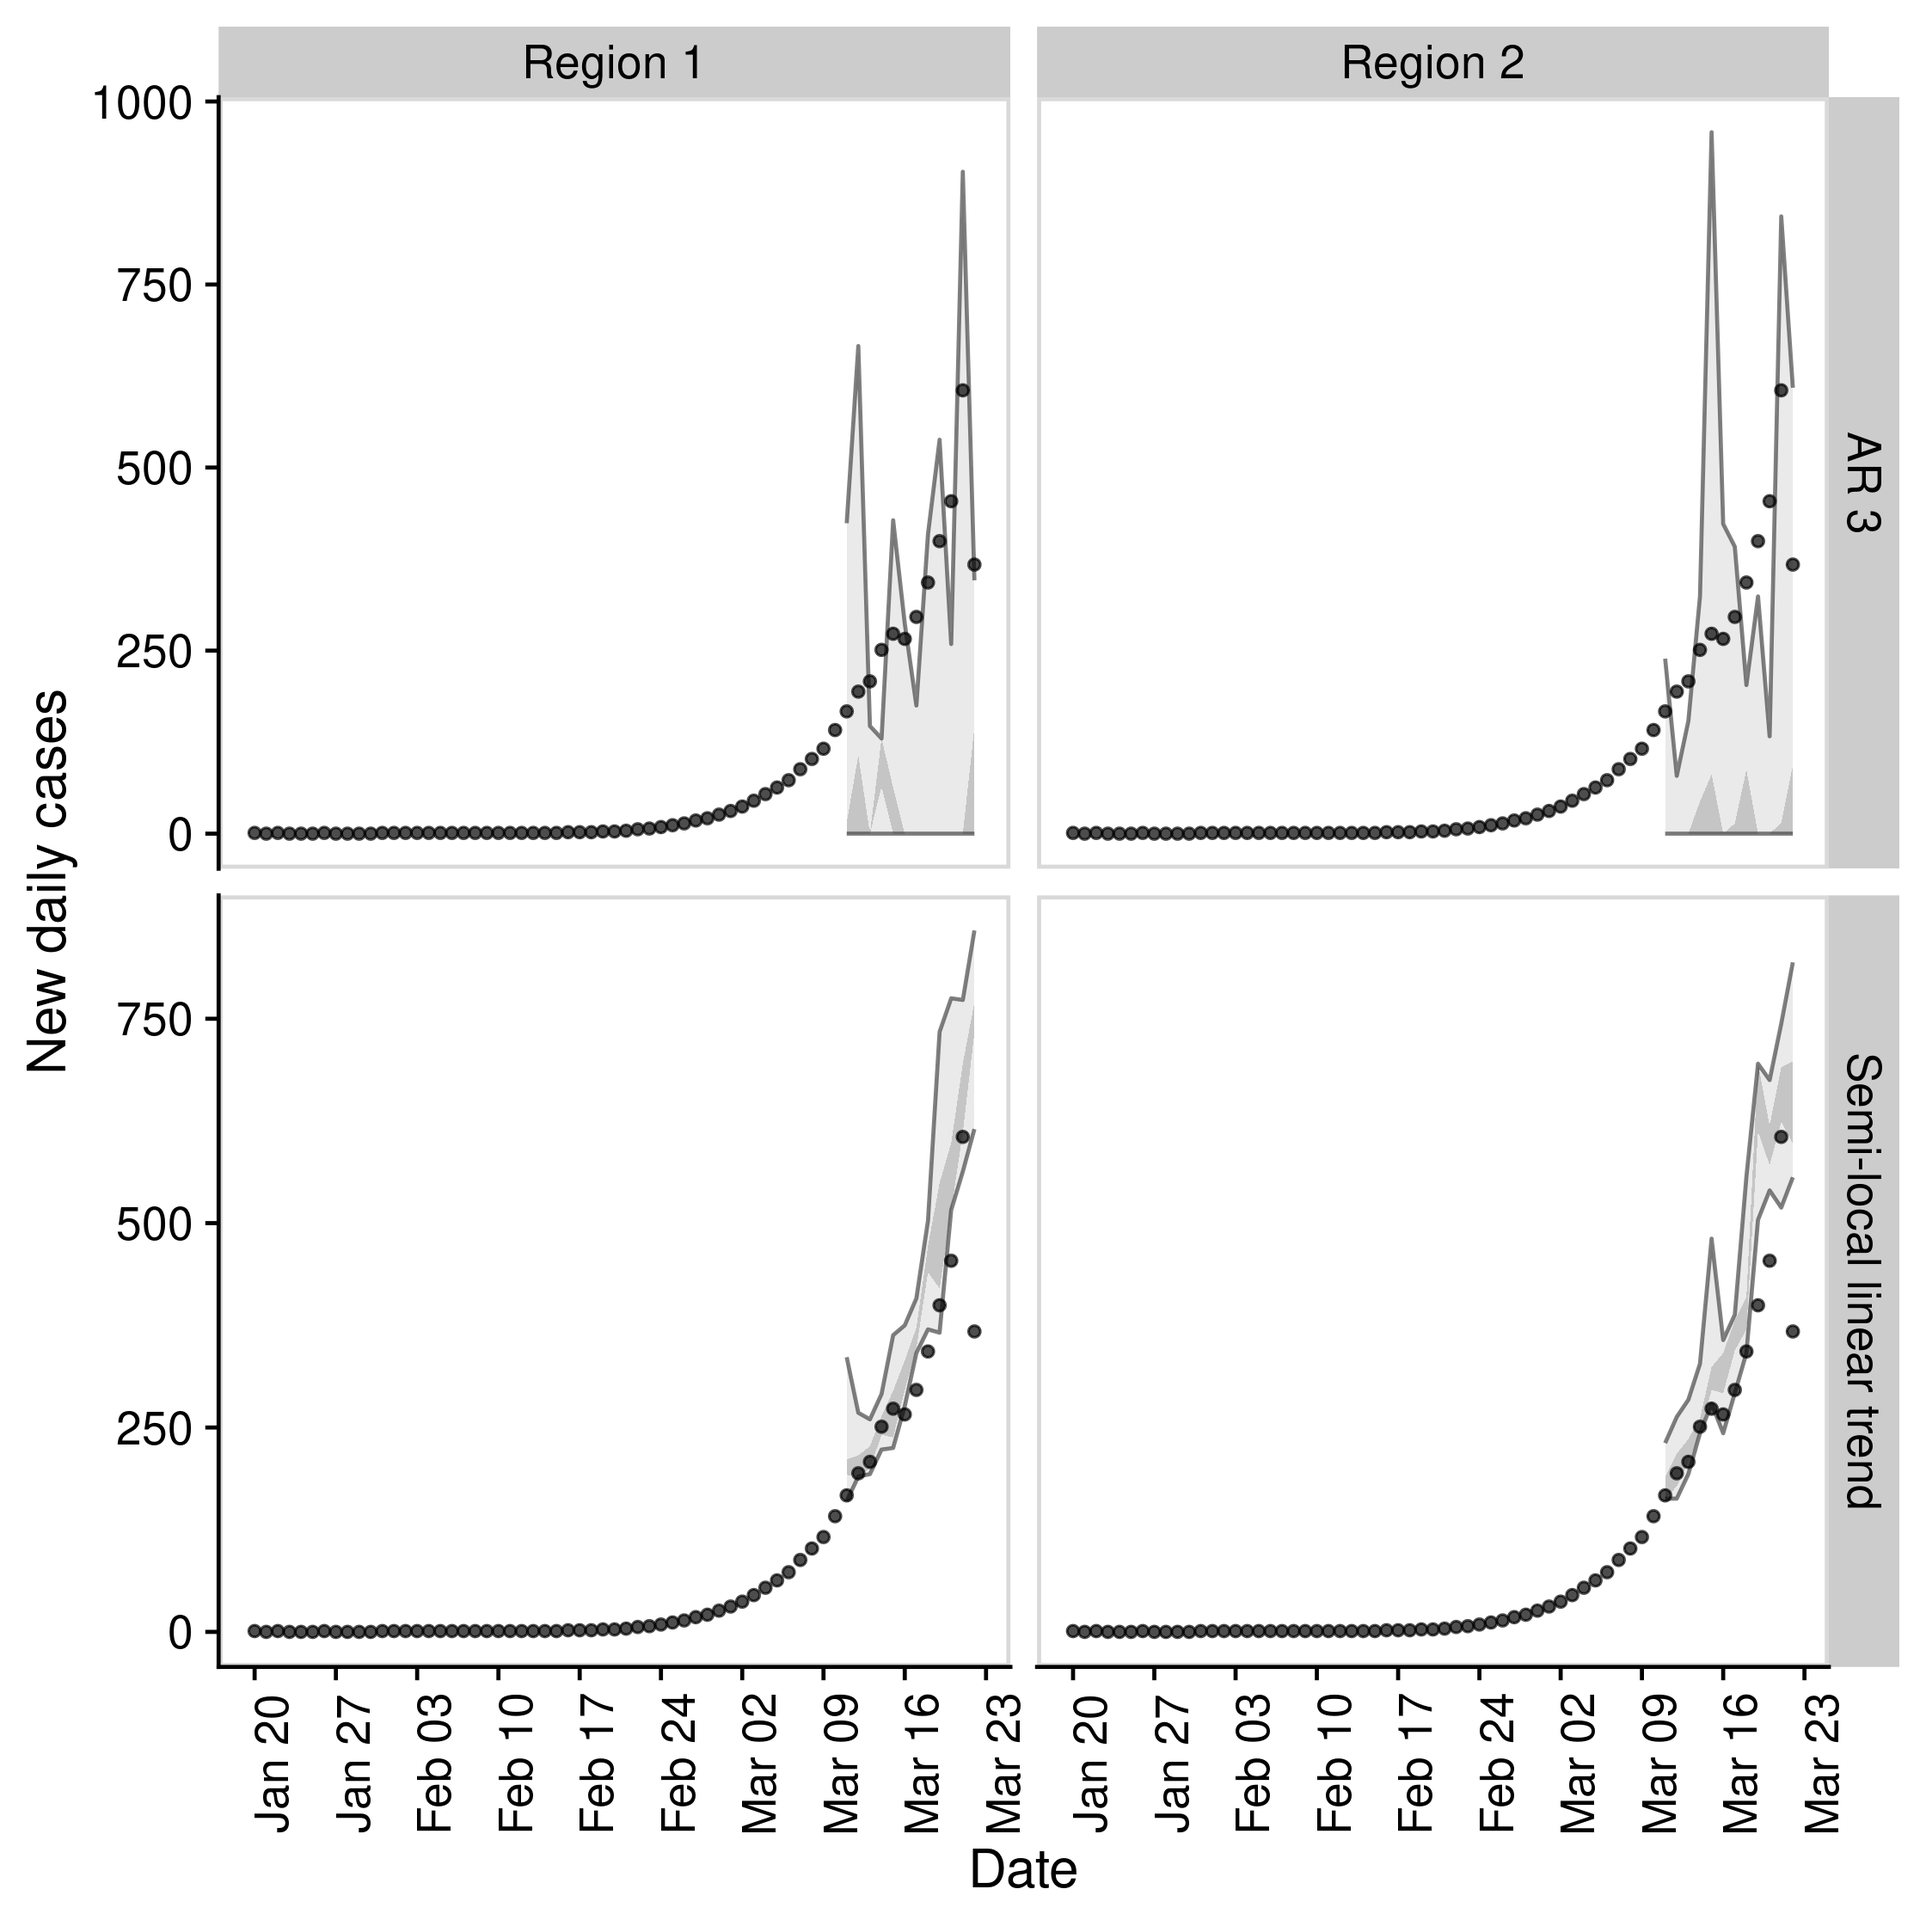
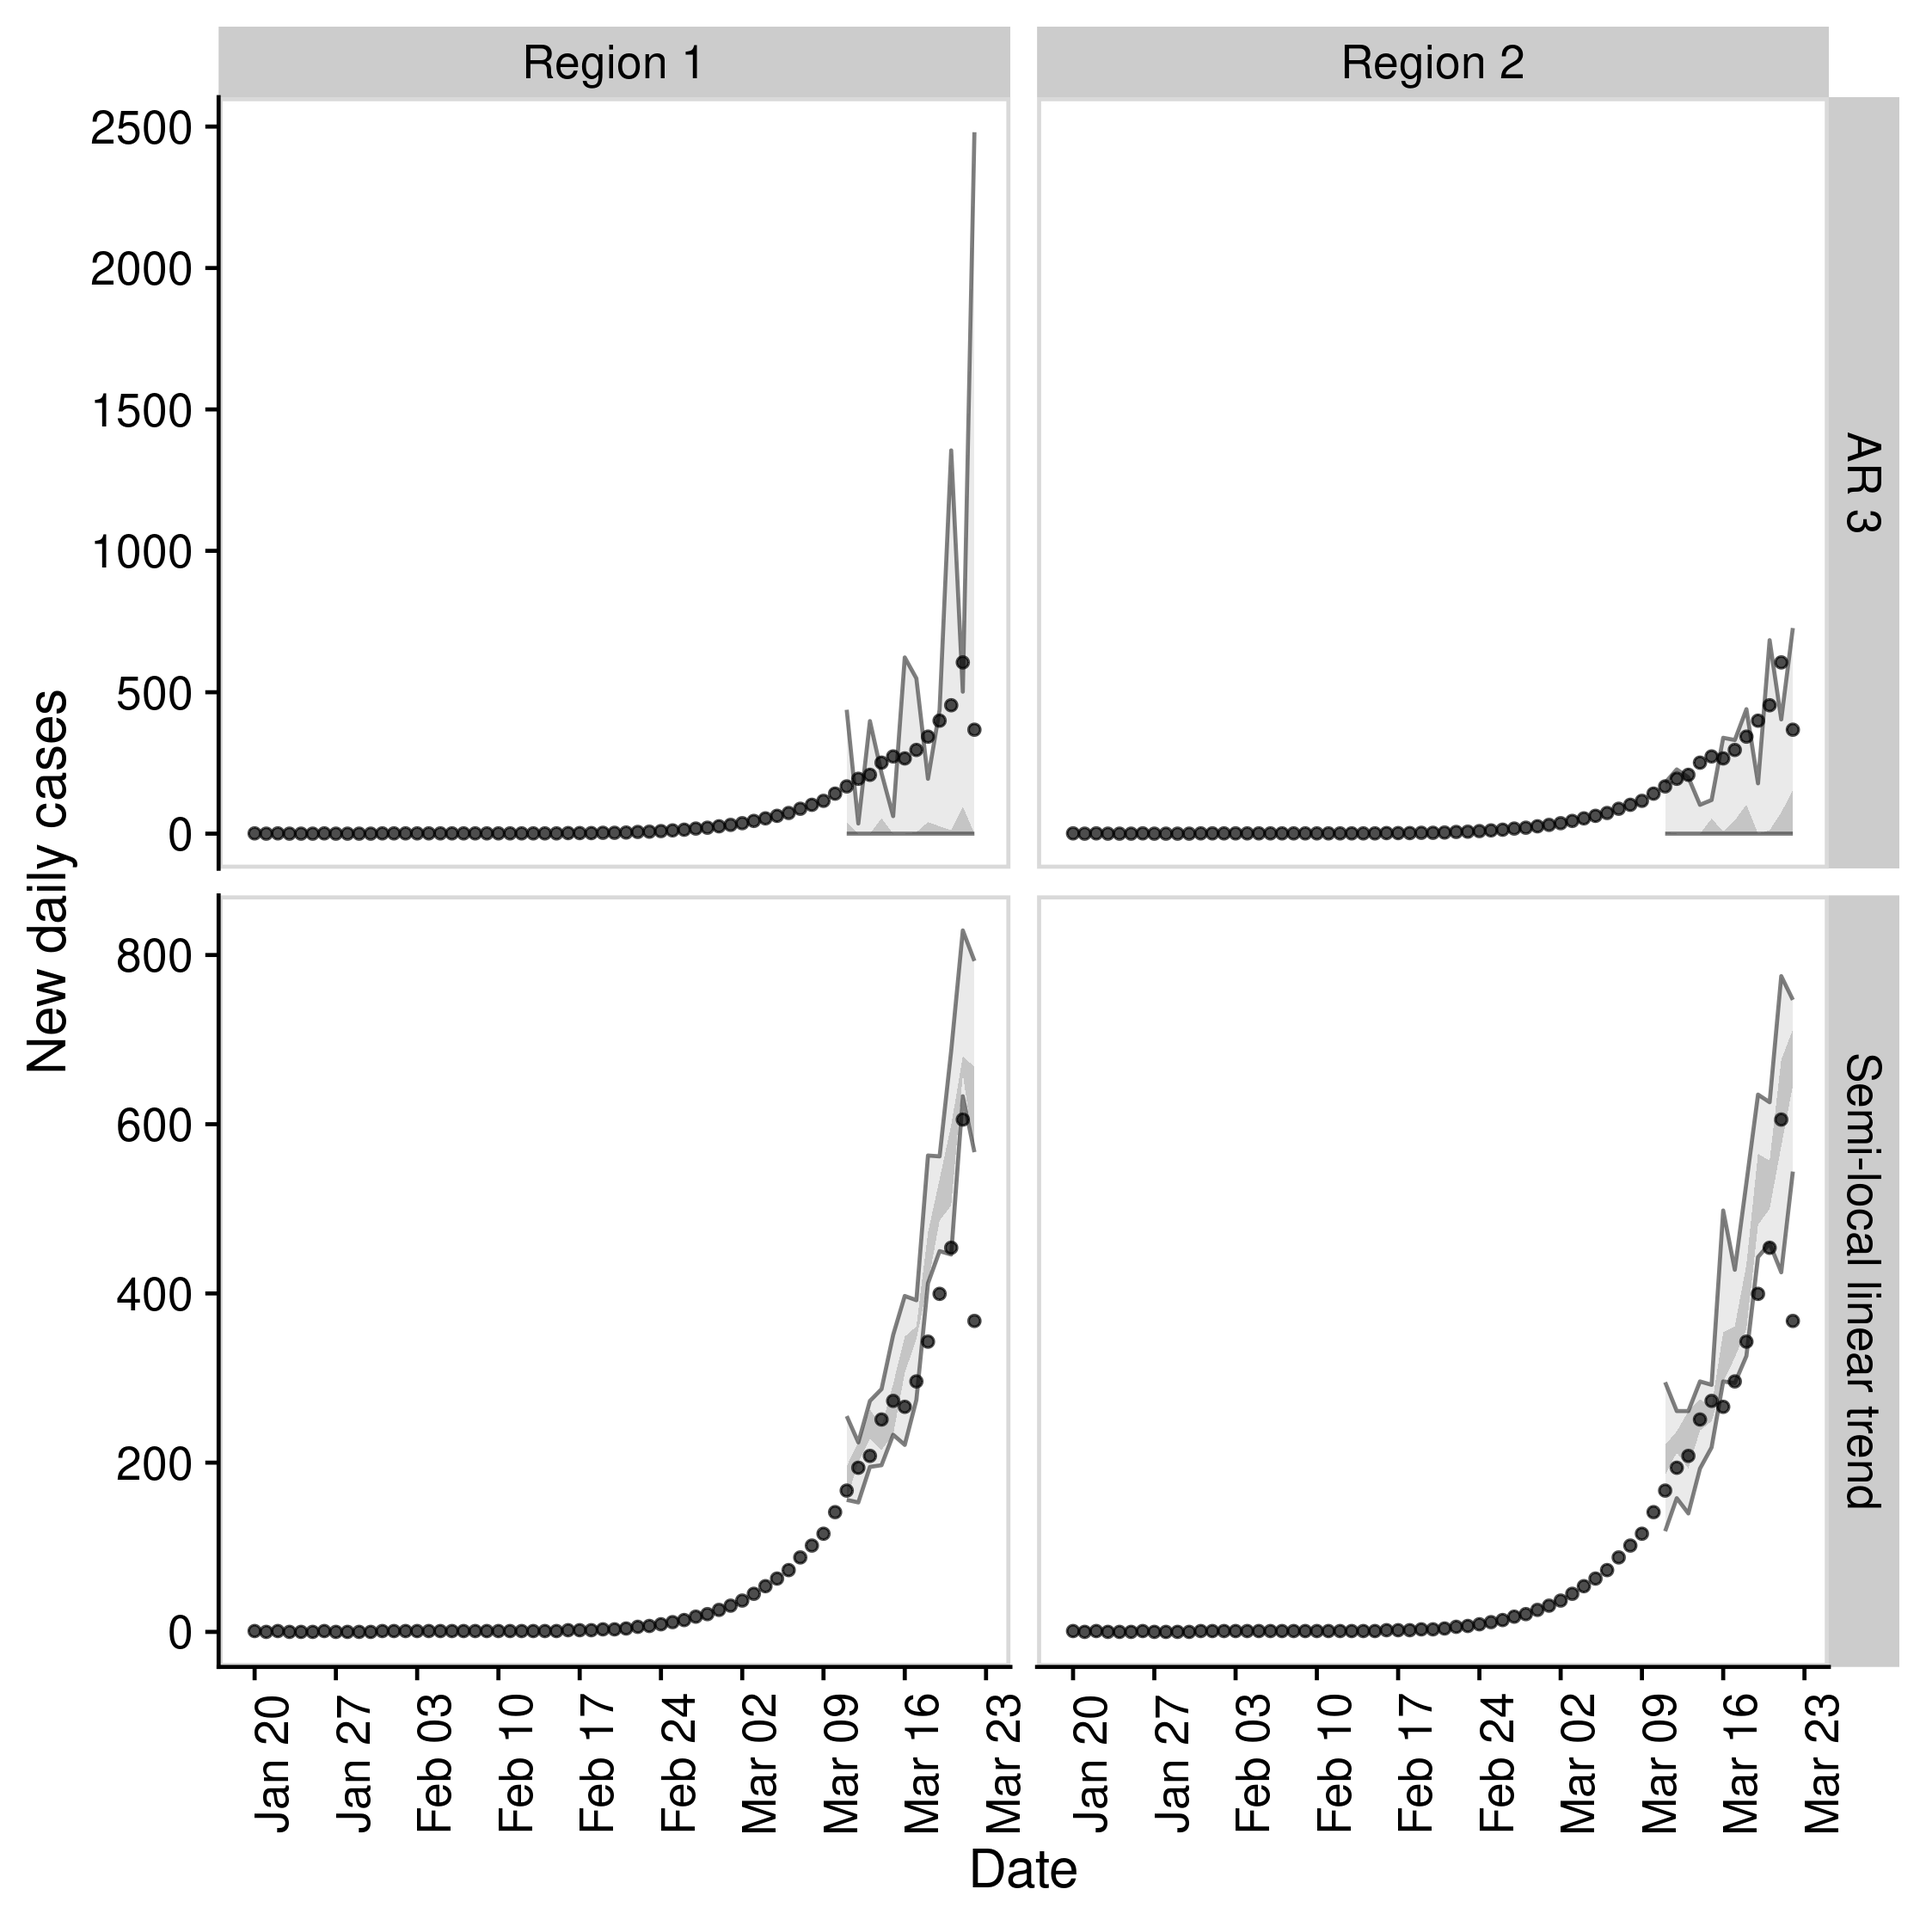
update install instructions

diff --git a/README.md b/README.md
@@ -24,7 +24,7 @@ Install the stable version of the package using
 
 ``` r
 install.packages("drat")
-drat::add("epiforecasts")
+drat:::add("epiforecasts")
 install.packages("EpiSoon")
 ```
 
@@ -105,35 +105,35 @@ forecasts <- EpiSoon::compare_timeseries(obs_rts, obs_cases, models,
 forecasts
 #> $forecast_rts
 #> # A tibble: 532 x 12
-#>    timeseries model forecast_date date       horizon median  mean    sd bottom
-#>    <chr>      <chr> <chr>         <date>       <int>  <dbl> <dbl> <dbl>  <dbl>
-#>  1 Region 1   AR 3  2020-03-04    2020-03-05       1 0      0.548 0.966      0
-#>  2 Region 1   AR 3  2020-03-04    2020-03-06       2 0.0701 1.53  2.10       0
-#>  3 Region 1   AR 3  2020-03-04    2020-03-07       3 0      0.830 1.54       0
-#>  4 Region 1   AR 3  2020-03-04    2020-03-08       4 0.283  1.23  1.73       0
-#>  5 Region 1   AR 3  2020-03-04    2020-03-09       5 0      0.874 1.58       0
-#>  6 Region 1   AR 3  2020-03-04    2020-03-10       6 0      0.492 0.913      0
-#>  7 Region 1   AR 3  2020-03-04    2020-03-11       7 0.822  2.39  3.51       0
-#>  8 Region 1   AR 3  2020-03-05    2020-03-06       1 0.149  0.547 0.956      0
-#>  9 Region 1   AR 3  2020-03-05    2020-03-07       2 0.835  2.22  3.45       0
-#> 10 Region 1   AR 3  2020-03-05    2020-03-08       3 0      0.475 0.788      0
+#>    timeseries model forecast_date date       horizon median   mean    sd bottom
+#>    <chr>      <chr> <chr>         <date>       <int>  <dbl>  <dbl> <dbl>  <dbl>
+#>  1 Region 1   AR 3  2020-03-04    2020-03-05       1  1.24  2.35   3.49       0
+#>  2 Region 1   AR 3  2020-03-04    2020-03-06       2  1.75  2.09   2.77       0
+#>  3 Region 1   AR 3  2020-03-04    2020-03-07       3  0     1.96   4.07       0
+#>  4 Region 1   AR 3  2020-03-04    2020-03-08       4  0     1.30   2.49       0
+#>  5 Region 1   AR 3  2020-03-04    2020-03-09       5  0     0.564  1.07       0
+#>  6 Region 1   AR 3  2020-03-04    2020-03-10       6  0.832 1.60   2.23       0
+#>  7 Region 1   AR 3  2020-03-04    2020-03-11       7  1.45  1.49   1.45       0
+#>  8 Region 1   AR 3  2020-03-05    2020-03-06       1  0     0.0907 0.287      0
+#>  9 Region 1   AR 3  2020-03-05    2020-03-07       2  0     0.591  0.970      0
+#> 10 Region 1   AR 3  2020-03-05    2020-03-08       3  0     0.710  1.66       0
 #> # … with 522 more rows, and 3 more variables: lower <dbl>, upper <dbl>,
 #> #   top <dbl>
 #> 
 #> $rt_scores
 #> # A tibble: 420 x 14
-#>    timeseries model forecast_date date       horizon   dss  crps  logs   bias
-#>    <chr>      <chr> <chr>         <date>       <int> <dbl> <dbl> <dbl>  <dbl>
-#>  1 Region 1   AR 3  2020-03-04    2020-03-05       1  3.34 1.41   2.62 -0.8  
-#>  2 Region 1   AR 3  2020-03-04    2020-03-06       2  1.49 0.943  2.20 -0.400
-#>  3 Region 1   AR 3  2020-03-04    2020-03-07       3  1.57 1.17   2.23 -0.6  
-#>  4 Region 1   AR 3  2020-03-04    2020-03-08       4  1.28 0.906  2.26 -0.6  
-#>  5 Region 1   AR 3  2020-03-04    2020-03-09       5  1.43 1.17   3.92 -0.6  
-#>  6 Region 1   AR 3  2020-03-04    2020-03-10       6  2.86 1.31   3.80 -0.8  
-#>  7 Region 1   AR 3  2020-03-04    2020-03-11       7  2.42 0.779  1.97 -0.200
-#>  8 Region 1   AR 3  2020-03-05    2020-03-06       1  3.10 1.43   6.29 -0.8  
-#>  9 Region 1   AR 3  2020-03-05    2020-03-07       2  2.37 0.804  2.00 -0.200
-#> 10 Region 1   AR 3  2020-03-05    2020-03-08       3  4.17 1.28   1.46 -1    
+#>    timeseries model forecast_date date       horizon    dss  crps   logs   bias
+#>    <chr>      <chr> <chr>         <date>       <int>  <dbl> <dbl>  <dbl>  <dbl>
+#>  1 Region 1   AR 3  2020-03-04    2020-03-05       1  2.39  0.766   1.98 -0.200
+#>  2 Region 1   AR 3  2020-03-04    2020-03-06       2  1.93  0.509   1.64 -0.200
+#>  3 Region 1   AR 3  2020-03-04    2020-03-07       3  2.70  1.37    6.40 -0.6  
+#>  4 Region 1   AR 3  2020-03-04    2020-03-08       4  1.83  1.26    4.87 -0.6  
+#>  5 Region 1   AR 3  2020-03-04    2020-03-09       5  2.19  1.30    3.78 -0.8  
+#>  6 Region 1   AR 3  2020-03-04    2020-03-10       6  1.54  0.719   1.93 -0.6  
+#>  7 Region 1   AR 3  2020-03-04    2020-03-11       7  0.780 0.463   1.52 -0.400
+#>  8 Region 1   AR 3  2020-03-05    2020-03-06       1 57.0   2.02  Inf    -1    
+#>  9 Region 1   AR 3  2020-03-05    2020-03-07       2  2.69  1.20    1.74 -0.6  
+#> 10 Region 1   AR 3  2020-03-05    2020-03-08       3  1.69  1.42   16.0  -0.8  
 #> # … with 410 more rows, and 5 more variables: sharpness <dbl>,
 #> #   calibration <dbl>, median <dbl>, iqr <dbl>, ci <dbl>
 #> 
@@ -141,33 +141,33 @@ forecasts
 #> # A tibble: 420 x 12
 #>    timeseries model forecast_date date       horizon median  mean    sd bottom
 #>    <chr>      <chr> <chr>         <date>       <int>  <dbl> <dbl> <dbl>  <dbl>
-#>  1 Region 1   AR 3  2020-03-04    2020-03-05       1    0    17.3  32.0      0
-#>  2 Region 1   AR 3  2020-03-04    2020-03-06       2    1.5  55.6  77.4      0
-#>  3 Region 1   AR 3  2020-03-04    2020-03-07       3    0    33.4  62.4      0
-#>  4 Region 1   AR 3  2020-03-04    2020-03-08       4    7    61.6  93.4      0
-#>  5 Region 1   AR 3  2020-03-04    2020-03-09       5    0    26.9  49.5      0
-#>  6 Region 1   AR 3  2020-03-04    2020-03-10       6    0    25.4  48.6      0
-#>  7 Region 1   AR 3  2020-03-04    2020-03-11       7   12.5  86.9 150.       0
-#>  8 Region 1   AR 3  2020-03-05    2020-03-06       1    3.5  17.7  32.3      0
-#>  9 Region 1   AR 3  2020-03-05    2020-03-07       2   43    93.7 142.       0
-#> 10 Region 1   AR 3  2020-03-05    2020-03-08       3    0    16    27.1      0
+#>  1 Region 1   AR 3  2020-03-04    2020-03-05       1   37.5  70.3 104.       0
+#>  2 Region 1   AR 3  2020-03-04    2020-03-06       2   61    77.7  98.1      0
+#>  3 Region 1   AR 3  2020-03-04    2020-03-07       3    0   168.  421.       0
+#>  4 Region 1   AR 3  2020-03-04    2020-03-08       4    0    89.4 228.       0
+#>  5 Region 1   AR 3  2020-03-04    2020-03-09       5    0    17.9  35.7      0
+#>  6 Region 1   AR 3  2020-03-04    2020-03-10       6   27   248   609.       0
+#>  7 Region 1   AR 3  2020-03-04    2020-03-11       7   39   136.  177.       0
+#>  8 Region 1   AR 3  2020-03-05    2020-03-06       1    0     4    12.6      0
+#>  9 Region 1   AR 3  2020-03-05    2020-03-07       2    0    24.2  40.0      0
+#> 10 Region 1   AR 3  2020-03-05    2020-03-08       3    0    26.7  69.1      0
 #> # … with 410 more rows, and 3 more variables: lower <dbl>, upper <dbl>,
 #> #   top <dbl>
 #> 
 #> $case_scores
 #> # A tibble: 420 x 15
-#>    timeseries model sample forecast_date date       horizon   dss  crps  logs
-#>    <chr>      <chr> <chr>  <chr>         <date>       <int> <dbl> <dbl> <dbl>
-#>  1 Region 1   AR 3  1      2020-03-04    2020-03-05       1  9.09  39.0  6.68
-#>  2 Region 1   AR 3  1      2020-03-04    2020-03-06       2  8.65  32.3  5.74
-#>  3 Region 1   AR 3  1      2020-03-04    2020-03-07       3  9.01  48.7  5.94
-#>  4 Region 1   AR 3  1      2020-03-04    2020-03-08       4  9.18  48.8  6.29
-#>  5 Region 1   AR 3  1      2020-03-04    2020-03-09       5 11.3   72.1  6.18
-#>  6 Region 1   AR 3  1      2020-03-04    2020-03-10       6 14.0   98    6.13
-#>  7 Region 1   AR 3  1      2020-03-04    2020-03-11       7 10.2   93.1  8.60
-#>  8 Region 1   AR 3  1      2020-03-05    2020-03-06       1 10.1   48.4  9.74
-#>  9 Region 1   AR 3  1      2020-03-05    2020-03-07       2  9.80  32.1  5.68
-#> 10 Region 1   AR 3  1      2020-03-05    2020-03-08       3 17.7   74.1 11.6 
+#>    timeseries model sample forecast_date date       horizon   dss  crps   logs
+#>    <chr>      <chr> <chr>  <chr>         <date>       <int> <dbl> <dbl>  <dbl>
+#>  1 Region 1   AR 3  1      2020-03-04    2020-03-05       1  9.18  21.9   5.34
+#>  2 Region 1   AR 3  1      2020-03-04    2020-03-06       2  9.07  19.5   5.32
+#>  3 Region 1   AR 3  1      2020-03-04    2020-03-07       3 12.0   68.1  18.2 
+#>  4 Region 1   AR 3  1      2020-03-04    2020-03-08       4 10.8   64.1   6.21
+#>  5 Region 1   AR 3  1      2020-03-04    2020-03-09       5 15.4   83.8   5.81
+#>  6 Region 1   AR 3  1      2020-03-04    2020-03-10       6 12.8   88.7   7.54
+#>  7 Region 1   AR 3  1      2020-03-04    2020-03-11       7 10.3   79.0   6.58
+#>  8 Region 1   AR 3  1      2020-03-05    2020-03-06       1 38.0   65.4 Inf   
+#>  9 Region 1   AR 3  1      2020-03-05    2020-03-07       2 10.1   49.8   5.56
+#> 10 Region 1   AR 3  1      2020-03-05    2020-03-08       3  9.69  76.0 284.  
 #> # … with 410 more rows, and 6 more variables: bias <dbl>, sharpness <dbl>,
 #> #   calibration <dbl>, median <dbl>, iqr <dbl>, ci <dbl>
 ```
@@ -207,24 +207,24 @@ EpiSoon::summarise_scores(forecasts$case_scores)
 #> # A tibble: 18 x 9
 #>    score  model   bottom    lower   median      mean    upper      top        sd
 #>    <chr>  <chr>    <dbl>    <dbl>    <dbl>     <dbl>    <dbl>    <dbl>     <dbl>
-#>  1 bias   AR 3  -1.00e+0 -8.00e-1 -8.00e-1   -0.662  -6.00e-1    0        0.263 
-#>  2 bias   Semi… -1.00e+0  3.00e-1  8.00e-1    0.561   1.00e+0    1        0.548 
-#>  3 calib… AR 3   8.57e-5  8.57e-5  8.57e-5    0.0240  3.68e-3    0.222    0.0860
-#>  4 calib… Semi…  8.57e-5  8.57e-5  8.57e-5    0.0202  2.00e-4    0.340    0.0639
-#>  5 ci     AR 3   1.51e+2  3.35e+2  5.95e+2 1382.      1.12e+3 9342.    2232.    
-#>  6 ci     Semi…  2.59e+1  5.15e+1  1.41e+2 1162.      2.07e+3 5469.    1795.    
-#>  7 crps   AR 3   3.21e+1  8.91e+1  1.40e+2  152.      1.84e+2  416.      93.7   
-#>  8 crps   Semi…  2.79e+0  6.46e+0  1.67e+1   44.7     7.90e+1  177.      54.3   
-#>  9 dss    AR 3   9.01e+0  1.07e+1  1.18e+1   14.8     1.33e+1   53.4     11.2   
-#> 10 dss    Semi…  4.66e+0  6.03e+0  7.88e+0   14.8     1.57e+1   54.6     18.8   
-#> 11 iqr    AR 3   1.16e+2  3.54e+2  6.03e+2  681.      8.63e+2 1894.     467.    
-#> 12 iqr    Semi…  1.19e+1  2.81e+1  7.75e+1  191.      3.38e+2  716.     228.    
-#> 13 logs   AR 3   5.70e+0  6.60e+0  7.23e+0  Inf       9.86e+0  Inf      Inf     
-#> 14 logs   Semi…  3.27e+0  4.07e+0  4.82e+0   12.2     8.38e+0   71.4     30.2   
-#> 15 median AR 3   6.72e+1  2.60e+2  4.16e+2  463.      5.92e+2 1176.     272.    
-#> 16 median Semi…  2.00e+0  1.70e+1  5.00e+1  108.      1.86e+2  386.     124.    
-#> 17 sharp… AR 3   0.       0.       1.85e+1   64.6     8.52e+1  348.     108.    
-#> 18 sharp… Semi…  5.36e+0  1.26e+1  1.85e+1   24.5     3.02e+1   76.4     18.4
+#>  1 bias   AR 3  -1.00e+0 -8.00e-1 -8.00e-1   -0.69   -6.00e-1   -0.200    0.249 
+#>  2 bias   Semi… -1.00e+0  2.00e-1  6.00e-1    0.492   1.00e+0    1        0.554 
+#>  3 calib… AR 3   8.57e-5  8.57e-5  8.57e-5    0.0215  1.33e-3    0.181    0.0814
+#>  4 calib… Semi…  8.57e-5  8.57e-5  8.57e-5    0.0615  5.52e-4    0.834    0.164 
+#>  5 ci     AR 3   1.34e+2  3.60e+2  6.31e+2 1421.      1.32e+3 7967.    2035.    
+#>  6 ci     Semi…  2.61e+1  4.98e+1  1.09e+2  947.      1.41e+3 5420.    1592.    
+#>  7 crps   AR 3   3.53e+1  8.94e+1  1.35e+2  152.      1.96e+2  362.      87.3   
+#>  8 crps   Semi…  3.44e+0  6.66e+0  1.53e+1   40.8     7.01e+1  161.      48.8   
+#>  9 dss    AR 3   9.13e+0  1.09e+1  1.19e+1   16.2     1.35e+1   53.9     20.1   
+#> 10 dss    Semi…  4.72e+0  6.13e+0  7.80e+0   13.2     1.40e+1   50.3     16.5   
+#> 11 iqr    AR 3   1.25e+2  3.57e+2  5.72e+2  677.      9.11e+2 1776.     440.    
+#> 12 iqr    Semi…  1.36e+1  2.92e+1  6.80e+1  178.      3.09e+2  675.     208.    
+#> 13 logs   AR 3   5.61e+0  6.64e+0  7.33e+0  Inf       1.17e+1  Inf      Inf     
+#> 14 logs   Semi…  3.37e+0  4.09e+0  4.80e+0  Inf       7.29e+0   47.6    Inf     
+#> 15 median AR 3   1.15e+2  2.66e+2  4.36e+2  472.      5.92e+2 1119.     262.    
+#> 16 median Semi…  2.00e+0  1.60e+1  4.75e+1  100.      1.70e+2  340.     112.    
+#> 17 sharp… AR 3   0.       0.       1.11e+1   58.5     7.01e+1  386.      99.6   
+#> 18 sharp… Semi…  6.67e+0  1.35e+1  2.15e+1   26.7     3.41e+1   76.8     18.7
 ```
 
 ## Contributing
